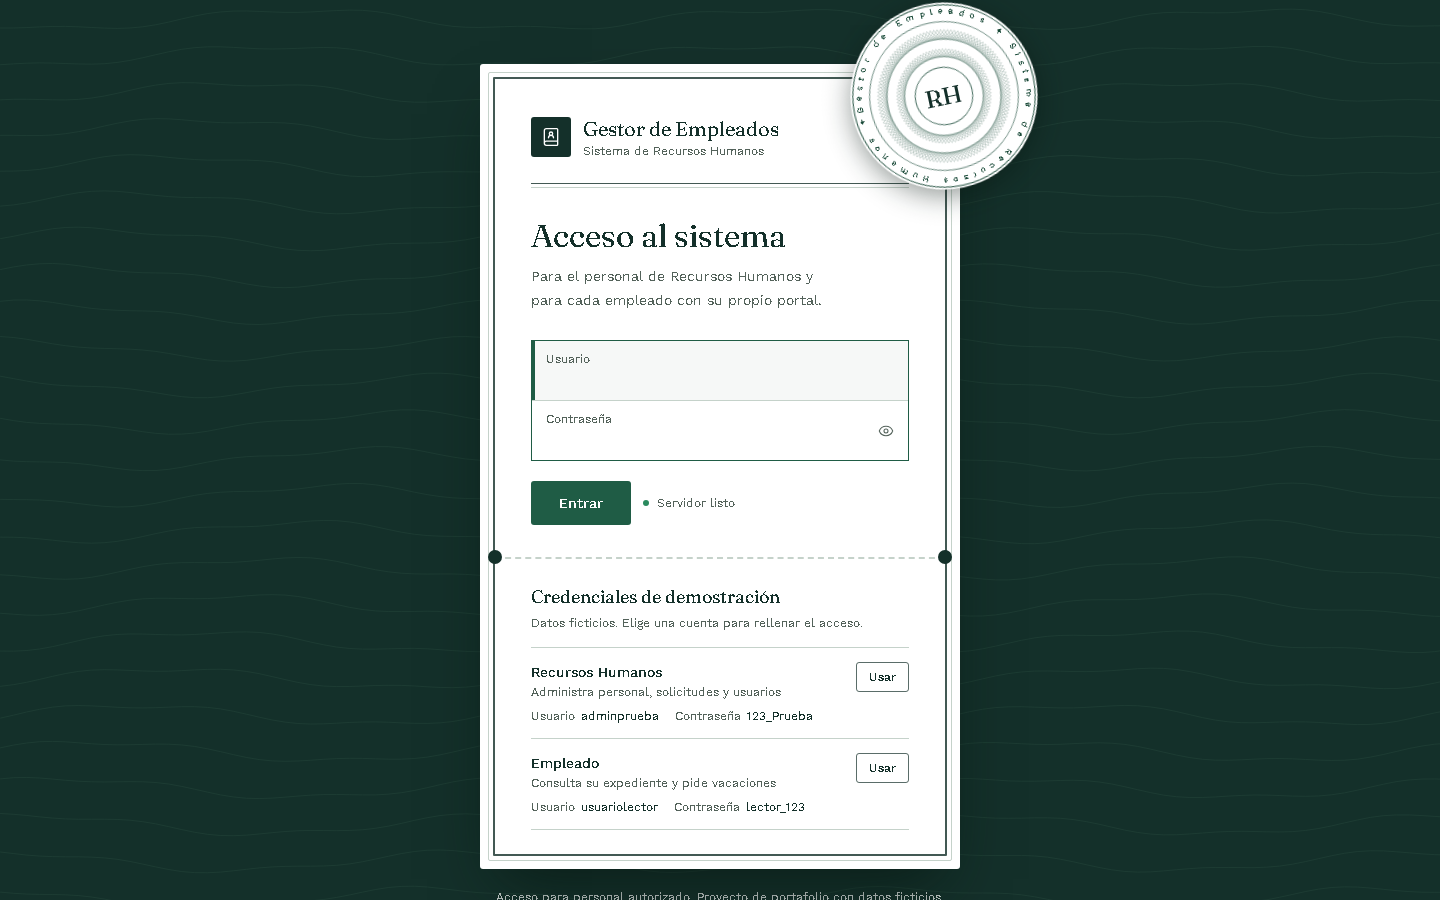
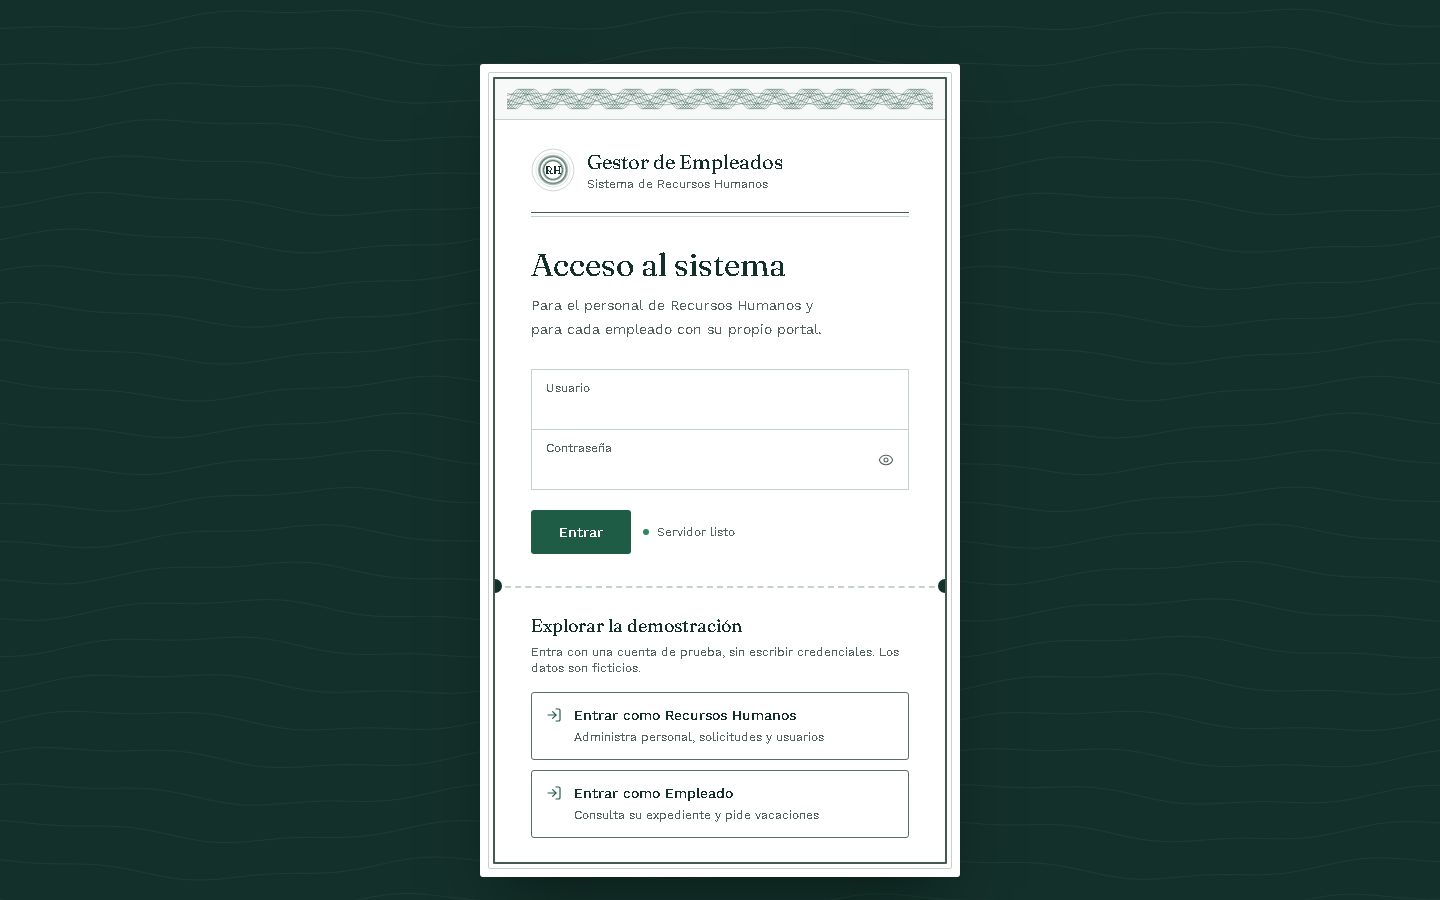
feat: acceso de un clic a la demo y banda de seguridad en el login
- Las credenciales de demostración se sustituyen por dos botones,
  "Entrar como Recursos Humanos" y "Entrar como Empleado", que inician
  sesión directamente (con los mismos reintentos y cancelación). Quien
  revisa la demo ya no tiene que copiar usuario y contraseña.
- El sello circular que sobresalía de la esquina se reemplaza por una
  banda de seguridad guilloché a lo ancho de la hoja, como la de un
  cheque o un título; el sello queda como marca pequeña del membrete.

Verificado: escenarios de red (incluido el acceso rápido de cada rol a
su página de inicio) y axe-core sin violaciones en el login.

diff --git a/src/pages/LoginPage.jsx b/src/pages/LoginPage.jsx
@@ -1,17 +1,18 @@
 import { useRef, useState } from 'react';
 import { useNavigate, useLocation } from 'react-router-dom';
-import { BookUser, AlertCircle, Eye, EyeOff, RotateCcw } from 'lucide-react';
+import { AlertCircle, Eye, EyeOff, RotateCcw, LogIn } from 'lucide-react';
 import { homePathFor } from '../utils/labels';
 import { useAuth } from '../context/AuthContext';
 import useServerStatus from '../hooks/useServerStatus';
 import Spinner from '../components/Spinner';
-import { Seal, EngravedBackground } from '../components/Guilloche';
+import { Seal, SecurityBand, EngravedBackground } from '../components/Guilloche';
 import { getErrorMessage } from '../utils/errors';
 import { isTransient } from '../api/retry';
 
+// Acceso de un clic para quien revisa la demo: no tiene que copiar usuario ni contraseña.
 const demoAccounts = [
-  { role: 'Recursos Humanos', scope: 'Administra personal, solicitudes y usuarios', username: 'adminprueba', password: '123_Prueba' },
-  { role: 'Empleado', scope: 'Consulta su expediente y pide vacaciones', username: 'usuariolector', password: 'lector_123' },
+  { id: 'rh', role: 'Recursos Humanos', scope: 'Administra personal, solicitudes y usuarios', username: 'adminprueba', password: '123_Prueba' },
+  { id: 'empleado', role: 'Empleado', scope: 'Consulta su expediente y pide vacaciones', username: 'usuariolector', password: 'lector_123' },
 ];
 
 export default function LoginPage() {
@@ -22,21 +23,21 @@ export default function LoginPage() {
   const [username, setUsername] = useState('');
   const [password, setPassword] = useState('');
   const [showPassword, setShowPassword] = useState(false);
-  const [error, setError] = useState('');
-  const [loading, setLoading] = useState(false);
-  const [retry, setRetry] = useState(null); // { attempt, attempts } mientras se reintenta
+  const [error, setError] = useState(null);     // { source, message }
+  const [pending, setPending] = useState(null); // 'form' | id de la cuenta demo
+  const [retry, setRetry] = useState(null);     // { attempt, attempts } mientras se reintenta
   const abortRef = useRef(null);
-  const submitRef = useRef(null);
+  const loading = pending !== null;
 
-  async function handleSubmit(e) {
-    e.preventDefault();
-    setError('');
+  // Compartido por el formulario y por los botones de demostración (mismos reintentos y errores).
+  async function signIn(user, pass, source) {
+    setError(null);
     setRetry(null);
-    setLoading(true);
+    setPending(source);
     const controller = new AbortController();
     abortRef.current = controller;
     try {
-      const sessionUser = await login(username, password, {
+      const sessionUser = await login(user, pass, {
         signal: controller.signal,
         onRetry: ({ attempt, attempts }) => setRetry({ attempt, attempts }),
       });
@@ -44,146 +45,141 @@ export default function LoginPage() {
       navigate(target, { replace: true });
     } catch (err) {
       if (err?.code === 'ERR_CANCELED') return; // la persona canceló: sin mensaje de error
-      setError(isTransient(err)
-        ? 'El servidor no respondió después de varios intentos. Puede seguir arrancando: espera unos segundos y vuelve a intentarlo.'
-        : getErrorMessage(err, 'Usuario o contraseña incorrectos'));
+      setError({
+        source,
+        message: isTransient(err)
+          ? 'El servidor no respondió después de varios intentos. Puede seguir arrancando: espera unos segundos y vuelve a intentarlo.'
+          : getErrorMessage(err, 'Usuario o contraseña incorrectos'),
+      });
       if (isTransient(err)) server.recheck();
     } finally {
-      setLoading(false);
+      setPending(null);
       setRetry(null);
     }
   }
 
-  function fillDemo(account) {
-    setUsername(account.username);
-    setPassword(account.password);
-    setError('');
-    submitRef.current?.focus();
+  function handleSubmit(e) {
+    e.preventDefault();
+    signIn(username, password, 'form');
   }
+
+  const progress = retry ? `Conectando (intento ${retry.attempt} de ${retry.attempts})` : 'Entrando…';
 
   return (
     <div className="relative min-h-screen overflow-hidden bg-ink px-4 py-10 sm:px-8 sm:py-16">
       <EngravedBackground className="pointer-events-none absolute inset-0 h-full w-full" />
 
-      {/* La hoja: un documento con doble filete, no una tarjeta. En escritorio se corre a la izquierda
-          para dejar el sello sobre el espacio libre. */}
       <div className="relative mx-auto w-full max-w-[30rem]">
-        <Seal className="absolute -right-2 -top-8 z-10 h-20 w-20 rotate-[-12deg] drop-shadow-[0_6px_14px_rgba(6,22,16,0.45)] sm:-right-14 sm:-top-14 sm:h-40 sm:w-40 lg:-right-20 lg:-top-16 lg:h-48 lg:w-48" />
-
+        {/* La hoja: un documento con doble filete, no una tarjeta. */}
         <main className="relative rounded-[3px] bg-surface p-2 shadow-[0_30px_60px_-20px_rgba(6,22,16,0.7)]">
           <div className="rounded-[2px] border border-outline p-1">
-            <div className="rounded-[1px] border-2 border-ink/80 px-6 pb-6 pt-7 sm:px-9 sm:pt-9">
-              {/* Membrete */}
-              <header className="flex items-center gap-3 pr-12 sm:pr-20">
-                <span className="flex h-10 w-10 flex-shrink-0 items-center justify-center rounded-[3px] bg-ink text-white">
-                  <BookUser className="h-5 w-5" strokeWidth={1.6} aria-hidden="true" />
-                </span>
-                <div>
-                  <p className="font-display text-base leading-tight text-ink sm:text-xl">Gestor de Empleados</p>
-                  <p className="text-xs text-foreground-muted">Sistema de Recursos Humanos</p>
-                </div>
-              </header>
-              <div className="mt-6 border-t border-ink/80" />
-              <div className="mt-[3px] border-t border-outline" />
+            <div className="overflow-hidden rounded-[1px] border-2 border-ink/80">
+              {/* Banda de seguridad del documento, como la de un cheque o un título. */}
+              <div className="border-b border-outline bg-primary/[0.035] px-3 py-1.5">
+                <SecurityBand className="block h-7 w-full" />
+              </div>
 
-              <h1 className="mt-7 font-display text-[2rem] leading-tight text-ink">Acceso al sistema</h1>
-              <p className="mt-2 max-w-[34ch] text-sm leading-6 text-foreground-muted">
-                Para el personal de Recursos Humanos y para cada empleado con su propio portal.
-              </p>
-
-              <form onSubmit={handleSubmit} className="mt-7">
-                {/* Casillas de formulario oficial: la etiqueta vive dentro del recuadro. */}
-                <div className="divide-y divide-outline border border-outline focus-within:border-primary">
-                  <label className="block px-3.5 pb-2 pt-2.5 focus-within:bg-primary/[0.04] focus-within:shadow-[inset_3px_0_0_theme(colors.primary.DEFAULT)]">
-                    <span className="block text-xs text-foreground-muted">Usuario</span>
-                    <input
-                      id="username" type="text" required autoFocus autoComplete="username"
-                      value={username} onChange={(e) => setUsername(e.target.value)}
-                      className="mt-0.5 w-full bg-transparent text-[15px] text-ink outline-none focus-visible:ring-0 focus-visible:ring-offset-0"
-                    />
-                  </label>
-                  <label className="relative block px-3.5 pb-2 pt-2.5 focus-within:bg-primary/[0.04] focus-within:shadow-[inset_3px_0_0_theme(colors.primary.DEFAULT)]">
-                    <span className="block text-xs text-foreground-muted">Contraseña</span>
-                    <input
-                      id="password" type={showPassword ? 'text' : 'password'} required autoComplete="current-password"
-                      value={password} onChange={(e) => setPassword(e.target.value)}
-                      className="mt-0.5 w-full bg-transparent pr-10 text-[15px] text-ink outline-none focus-visible:ring-0 focus-visible:ring-offset-0"
-                    />
-                    <button
-                      type="button"
-                      onClick={() => setShowPassword((v) => !v)}
-                      aria-label={showPassword ? 'Ocultar contraseña' : 'Mostrar contraseña'}
-                      aria-pressed={showPassword}
-                      className="absolute right-1.5 top-1/2 -translate-y-1/2 rounded-[3px] p-2 text-foreground-muted transition hover:text-ink"
-                    >
-                      {showPassword ? <EyeOff className="h-4 w-4" strokeWidth={1.6} /> : <Eye className="h-4 w-4" strokeWidth={1.6} />}
-                    </button>
-                  </label>
-                </div>
-
-                {error && (
-                  <div role="alert" className="mt-4 flex items-start gap-2 border-l-2 border-danger-strong bg-danger/[0.07] px-3 py-2.5 text-sm text-danger-strong">
-                    <AlertCircle className="mt-0.5 h-4 w-4 flex-shrink-0" strokeWidth={1.75} aria-hidden="true" />
-                    <span>{error}</span>
+              <div className="px-6 pb-6 pt-6 sm:px-9 sm:pt-7">
+                {/* Membrete */}
+                <header className="flex items-center gap-3">
+                  <Seal compact className="h-11 w-11 flex-shrink-0" />
+                  <div>
+                    <p className="font-display text-lg leading-tight text-ink sm:text-xl">Gestor de Empleados</p>
+                    <p className="text-xs text-foreground-muted">Sistema de Recursos Humanos</p>
                   </div>
-                )}
+                </header>
+                <div className="mt-5 border-t border-ink/80" />
+                <div className="mt-[3px] border-t border-outline" />
 
-                <div className="mt-5 flex flex-col gap-3 sm:flex-row sm:items-center">
-                  <button
-                    ref={submitRef}
-                    type="submit" disabled={loading}
-                    className="flex items-center justify-center gap-2 rounded-[3px] bg-primary px-7 py-3 text-sm font-medium text-white transition hover:bg-primary-strong disabled:cursor-wait disabled:hover:bg-primary"
-                  >
-                    {loading && <Spinner size={15} />}
-                    {!loading ? 'Entrar' : retry ? `Conectando (intento ${retry.attempt} de ${retry.attempts})` : 'Entrando…'}
-                  </button>
-                  {retry && (
-                    <button type="button" onClick={() => abortRef.current?.abort()} className="text-sm text-foreground-muted underline underline-offset-4 hover:text-ink">
-                      Cancelar
+                <h1 className="mt-7 font-display text-[2rem] leading-tight text-ink">Acceso al sistema</h1>
+                <p className="mt-2 max-w-[34ch] text-sm leading-6 text-foreground-muted">
+                  Para el personal de Recursos Humanos y para cada empleado con su propio portal.
+                </p>
+
+                <form onSubmit={handleSubmit} className="mt-7">
+                  {/* Casillas de formulario oficial: la etiqueta vive dentro del recuadro. */}
+                  <div className="divide-y divide-outline border border-outline focus-within:border-primary">
+                    <label className="block px-3.5 pb-2 pt-2.5 focus-within:bg-primary/[0.04] focus-within:shadow-[inset_3px_0_0_theme(colors.primary.DEFAULT)]">
+                      <span className="block text-xs text-foreground-muted">Usuario</span>
+                      <input
+                        id="username" type="text" required autoComplete="username"
+                        value={username} onChange={(e) => setUsername(e.target.value)}
+                        className="mt-0.5 w-full bg-transparent text-[15px] text-ink outline-none focus-visible:ring-0 focus-visible:ring-offset-0"
+                      />
+                    </label>
+                    <label className="relative block px-3.5 pb-2 pt-2.5 focus-within:bg-primary/[0.04] focus-within:shadow-[inset_3px_0_0_theme(colors.primary.DEFAULT)]">
+                      <span className="block text-xs text-foreground-muted">Contraseña</span>
+                      <input
+                        id="password" type={showPassword ? 'text' : 'password'} required autoComplete="current-password"
+                        value={password} onChange={(e) => setPassword(e.target.value)}
+                        className="mt-0.5 w-full bg-transparent pr-10 text-[15px] text-ink outline-none focus-visible:ring-0 focus-visible:ring-offset-0"
+                      />
+                      <button
+                        type="button"
+                        onClick={() => setShowPassword((v) => !v)}
+                        aria-label={showPassword ? 'Ocultar contraseña' : 'Mostrar contraseña'}
+                        aria-pressed={showPassword}
+                        className="absolute right-1.5 top-1/2 -translate-y-1/2 rounded-[3px] p-2 text-foreground-muted transition hover:text-ink"
+                      >
+                        {showPassword ? <EyeOff className="h-4 w-4" strokeWidth={1.6} /> : <Eye className="h-4 w-4" strokeWidth={1.6} />}
+                      </button>
+                    </label>
+                  </div>
+
+                  {error?.source === 'form' && <ErrorNote message={error.message} />}
+
+                  <div className="mt-5 flex flex-col gap-3 sm:flex-row sm:items-center">
+                    <button
+                      type="submit" disabled={loading}
+                      className="flex items-center justify-center gap-2 rounded-[3px] bg-primary px-7 py-3 text-sm font-medium text-white transition hover:bg-primary-strong disabled:cursor-wait disabled:hover:bg-primary"
+                    >
+                      {pending === 'form' && <Spinner size={15} />}
+                      {pending === 'form' ? progress : 'Entrar'}
                     </button>
+                    {pending === 'form' && retry && <CancelButton onCancel={() => abortRef.current?.abort()} />}
+                    {!retry && <ServerStatus status={server.status} onRecheck={server.recheck} />}
+                  </div>
+                  {server.status === 'waking' && !retry && (
+                    <p className="mt-3 text-xs leading-5 text-foreground-muted">
+                      La demo usa un plan gratuito que se suspende sin uso; la primera conexión puede tardar hasta un minuto.
+                    </p>
                   )}
-                  {!retry && <ServerStatus status={server.status} onRecheck={server.recheck} />}
-                </div>
-                {server.status === 'waking' && !retry && (
-                  <p className="mt-3 text-xs leading-5 text-foreground-muted">
-                    La demo usa un plan gratuito que se suspende sin uso; la primera conexión puede tardar hasta un minuto.
-                    Puedes escribir tus datos mientras tanto.
-                  </p>
-                )}
-              </form>
+                </form>
 
-              {/* Talón desprendible con las credenciales de prueba. */}
-              <section aria-labelledby="demo-title" className="mt-8">
-                <div className="relative -mx-6 sm:-mx-9" aria-hidden="true">
-                  <div className="border-t-2 border-dashed border-outline" />
-                  <span className="absolute -left-[7px] -top-[7px] h-3.5 w-3.5 rounded-full bg-ink" />
-                  <span className="absolute -right-[7px] -top-[7px] h-3.5 w-3.5 rounded-full bg-ink" />
-                </div>
-                <h2 id="demo-title" className="mt-6 font-display text-lg text-ink">Credenciales de demostración</h2>
-                <p className="mt-1 text-xs text-foreground-muted">Datos ficticios. Elige una cuenta para rellenar el acceso.</p>
-                <ul className="mt-4 divide-y divide-outline border-y border-outline text-sm">
-                  {demoAccounts.map((account) => (
-                    <li key={account.username} className="flex items-start justify-between gap-4 py-3.5">
-                      <div className="min-w-0">
-                        <p className="font-medium text-ink">{account.role}</p>
-                        <p className="text-xs leading-5 text-foreground-muted">{account.scope}</p>
-                        <dl className="mt-1.5 flex flex-wrap gap-x-4 gap-y-0.5 text-xs">
-                          <div className="flex gap-1.5"><dt className="text-foreground-muted">Usuario</dt><dd className="text-ink">{account.username}</dd></div>
-                          <div className="flex gap-1.5"><dt className="text-foreground-muted">Contraseña</dt><dd className="text-ink">{account.password}</dd></div>
-                        </dl>
-                      </div>
-                          <button
-                            type="button"
-                            onClick={() => fillDemo(account)}
-                            aria-label={`Usar la cuenta de ${account.role}`}
-                            className="rounded-[3px] border border-ink/70 px-3 py-1.5 text-xs font-medium text-ink transition hover:bg-ink hover:text-white"
-                          >
-                            Usar
-                          </button>
-                    </li>
-                  ))}
-                </ul>
-              </section>
+                {/* Talón desprendible: acceso de un clic a la demostración. */}
+                <section aria-labelledby="demo-title" className="mt-8">
+                  <div className="relative -mx-6 sm:-mx-9" aria-hidden="true">
+                    <div className="border-t-2 border-dashed border-outline" />
+                    <span className="absolute -left-[7px] -top-[7px] h-3.5 w-3.5 rounded-full bg-ink" />
+                    <span className="absolute -right-[7px] -top-[7px] h-3.5 w-3.5 rounded-full bg-ink" />
+                  </div>
+                  <h2 id="demo-title" className="mt-6 font-display text-lg text-ink">Explorar la demostración</h2>
+                  <p className="mt-1 text-xs text-foreground-muted">Entra con una cuenta de prueba, sin escribir credenciales. Los datos son ficticios.</p>
+                  <div className="mt-4 grid gap-2.5">
+                    {demoAccounts.map((account) => (
+                      <button
+                        key={account.id}
+                        type="button"
+                        disabled={loading}
+                        onClick={() => signIn(account.username, account.password, account.id)}
+                        className="group flex items-start gap-3 rounded-[3px] border border-ink/70 px-3.5 py-3 text-left transition hover:bg-ink hover:text-white disabled:cursor-wait disabled:opacity-70 disabled:hover:bg-transparent disabled:hover:text-current"
+                      >
+                        {pending === account.id
+                          ? <span className="mt-0.5 text-ink group-hover:text-white"><Spinner size={16} /></span>
+                          : <LogIn className="mt-0.5 h-4 w-4 flex-shrink-0 text-primary group-hover:text-white" strokeWidth={1.75} aria-hidden="true" />}
+                        <span className="min-w-0">
+                          <span className="block text-sm font-medium text-ink group-hover:text-white">
+                            {pending === account.id ? progress : `Entrar como ${account.role}`}
+                          </span>
+                          <span className="mt-0.5 block text-xs leading-5 text-foreground-muted group-hover:text-white/80">{account.scope}</span>
+                        </span>
+                      </button>
+                    ))}
+                  </div>
+                  {pending && pending !== 'form' && retry && <div className="mt-3"><CancelButton onCancel={() => abortRef.current?.abort()} /></div>}
+                  {error && error.source !== 'form' && <ErrorNote message={error.message} />}
+                </section>
+              </div>
             </div>
           </div>
         </main>
@@ -191,6 +187,23 @@ export default function LoginPage() {
         <p className="mt-5 text-center text-xs text-white/75">Acceso para personal autorizado. Proyecto de portafolio con datos ficticios.</p>
       </div>
     </div>
+  );
+}
+
+function ErrorNote({ message }) {
+  return (
+    <div role="alert" className="mt-4 flex items-start gap-2 border-l-2 border-danger-strong bg-danger/[0.07] px-3 py-2.5 text-sm text-danger-strong">
+      <AlertCircle className="mt-0.5 h-4 w-4 flex-shrink-0" strokeWidth={1.75} aria-hidden="true" />
+      <span>{message}</span>
+    </div>
+  );
+}
+
+function CancelButton({ onCancel }) {
+  return (
+    <button type="button" onClick={onCancel} className="text-sm text-foreground-muted underline underline-offset-4 hover:text-ink">
+      Cancelar
+    </button>
   );
 }
 

diff --git a/src/components/Guilloche.jsx b/src/components/Guilloche.jsx
@@ -66,6 +66,32 @@ export function Seal({ className = '', compact = false }) {
   );
 }
 
+// Banda de seguridad: el "cordón" de un cheque o un título. Ondas desfasadas que se entrelazan
+// (dos familias con periodos distintos para que el cruce no se repita en bloques idénticos).
+const BAND_WIDTH = 480;
+const BAND_HEIGHT = 34;
+const BAND_PATHS = [
+  ...Array.from({ length: 7 }, (_, k) => ({ period: 40, amp: 12, phase: (k * Math.PI) / 7 })),
+  ...Array.from({ length: 5 }, (_, k) => ({ period: 96, amp: 7, phase: (k * 2 * Math.PI) / 5 })),
+].map(({ period, amp, phase }) => {
+  let d = '';
+  for (let x = 0; x <= BAND_WIDTH; x += 2) {
+    const y = BAND_HEIGHT / 2 + amp * Math.sin((2 * Math.PI * x) / period + phase);
+    d += `${x === 0 ? 'M' : 'L'}${x},${y.toFixed(2)}`;
+  }
+  return d;
+});
+
+export function SecurityBand({ className = '' }) {
+  return (
+    <svg viewBox={`0 0 ${BAND_WIDTH} ${BAND_HEIGHT}`} preserveAspectRatio="none" className={className} aria-hidden="true" focusable="false">
+      {BAND_PATHS.map((d, i) => (
+        <path key={i} d={d} fill="none" stroke={colors.primary.strong} strokeWidth="0.5" opacity="0.7" vectorEffect="non-scaling-stroke" />
+      ))}
+    </svg>
+  );
+}
+
 // Fondo de líneas onduladas, como el de un billete o un título.
 export function EngravedBackground({ className = '' }) {
   return (

diff --git a/README.md b/README.md
@@ -43,7 +43,7 @@ Interfaz web para administrar empleados y departamentos: login con roles, búsqu
 ### Inicio de sesión
 
 <p align="center">
-  <img src="docs/images/login.png" width="600" alt="Inicio de sesión como documento institucional: membrete, sello guilloché, casillas de formulario y talón con credenciales de demostración">
+  <img src="docs/images/login.png" width="600" alt="Inicio de sesión como documento institucional: banda de seguridad guilloché, membrete, casillas de formulario y acceso de un clic a la demostración">
 </p>
 
 ### Dashboard
